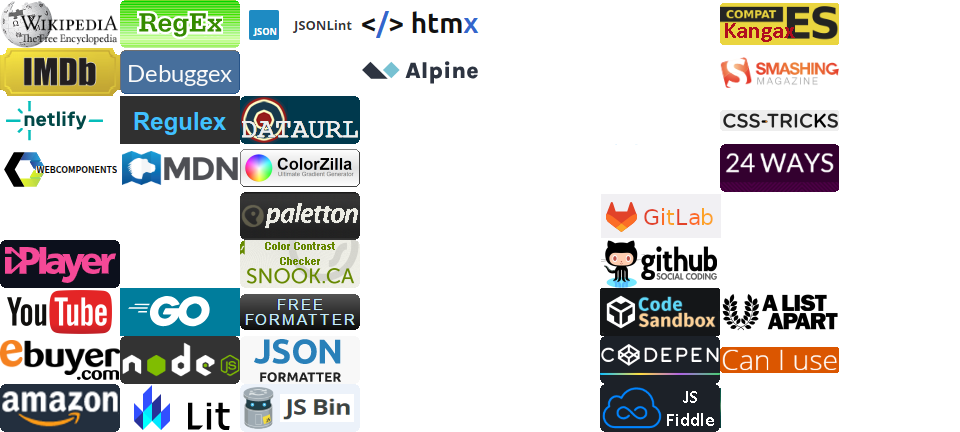
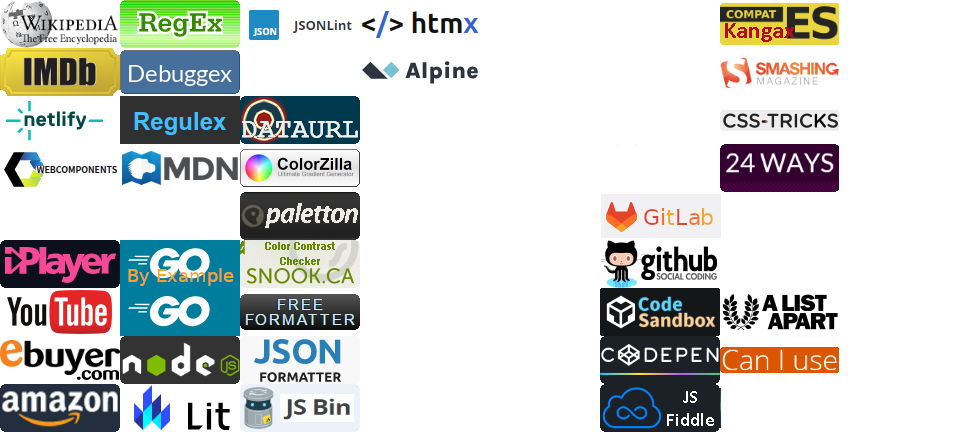
Go by Example added

Changed region(s): [[0.125, 0.5417, 0.25, 0.6921]]

diff --git a/index.html b/index.html
@@ -69,6 +69,10 @@
             href="https://go.dev/"
             style="background-position: 840px 144px"
           ></a>
+          <a
+            href="https://gobyexample.com/"
+            style="background-position: 840px 192px"
+          ></a>
           <br />
 
           <a
